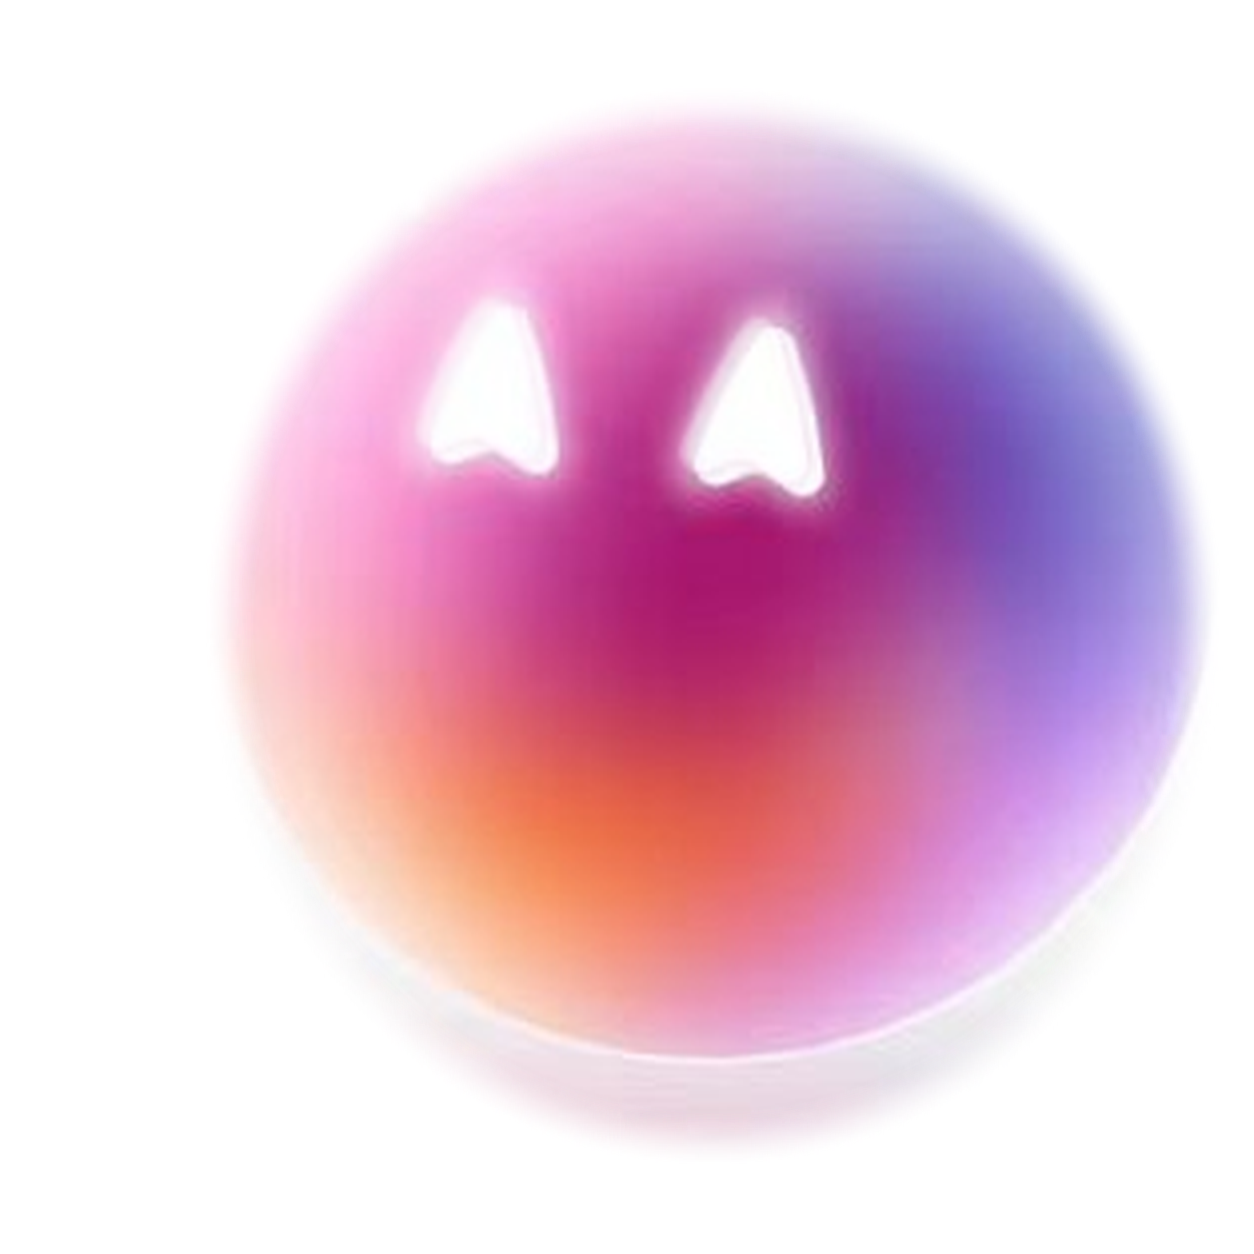
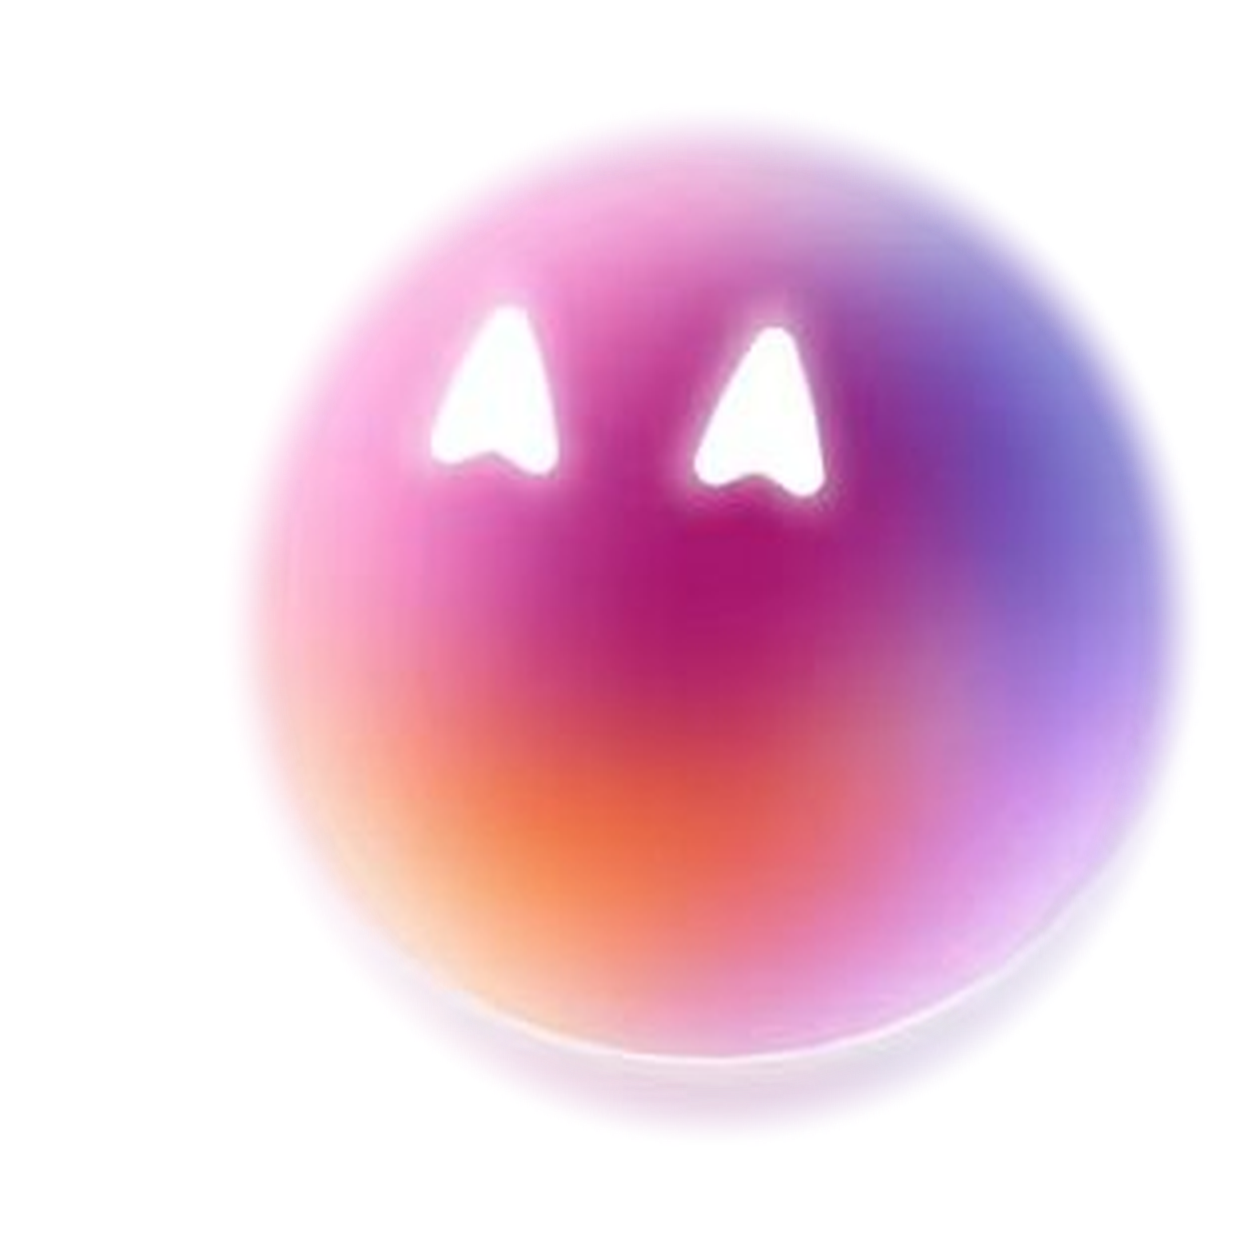
Tune AI orb scale and softness

Changed region(s): [[0.7153, 0.1244, 0.9641, 0.5598], [0.5287, 0.2488, 0.622, 0.3732], [0.311, 0.2177, 0.4043, 0.3421]]

diff --git a/frontend/lib/screen/base/ai_chat_screen.dart b/frontend/lib/screen/base/ai_chat_screen.dart
@@ -151,7 +151,7 @@ class _AiChatScreenState extends State<AiChatScreen> {
 
   Widget _hero() {
     return Container(
-      height: 720,
+      height: 660,
       padding: const EdgeInsets.fromLTRB(22, 42, 22, 28),
       decoration: BoxDecoration(
         color: const Color(0xFFFDFDFB),
@@ -170,18 +170,18 @@ class _AiChatScreenState extends State<AiChatScreen> {
           const _HeroTitle(),
           const SizedBox(height: 30),
           SizedBox(
-            height: 360,
+            height: 320,
             child: Stack(
               clipBehavior: Clip.none,
               alignment: Alignment.center,
               children: const [
                 Positioned(
-                  top: 248,
+                  top: 232,
                   child: _OrbFloorGlow(),
                 ),
                 Positioned(
-                  top: 20,
-                  child: _FloatingSlimeOrb(size: 315),
+                  top: 18,
+                  child: _FloatingSlimeOrb(size: 268),
                 ),
                 Positioned(
                   top: 34,
@@ -362,8 +362,8 @@ class _OrbFloorGlow extends StatelessWidget {
   @override
   Widget build(BuildContext context) {
     return SizedBox(
-      width: 300,
-      height: 90,
+      width: 282,
+      height: 82,
       child: Image.asset(
         'assets/images/ai_orb_shadow.png',
         fit: BoxFit.fill,
